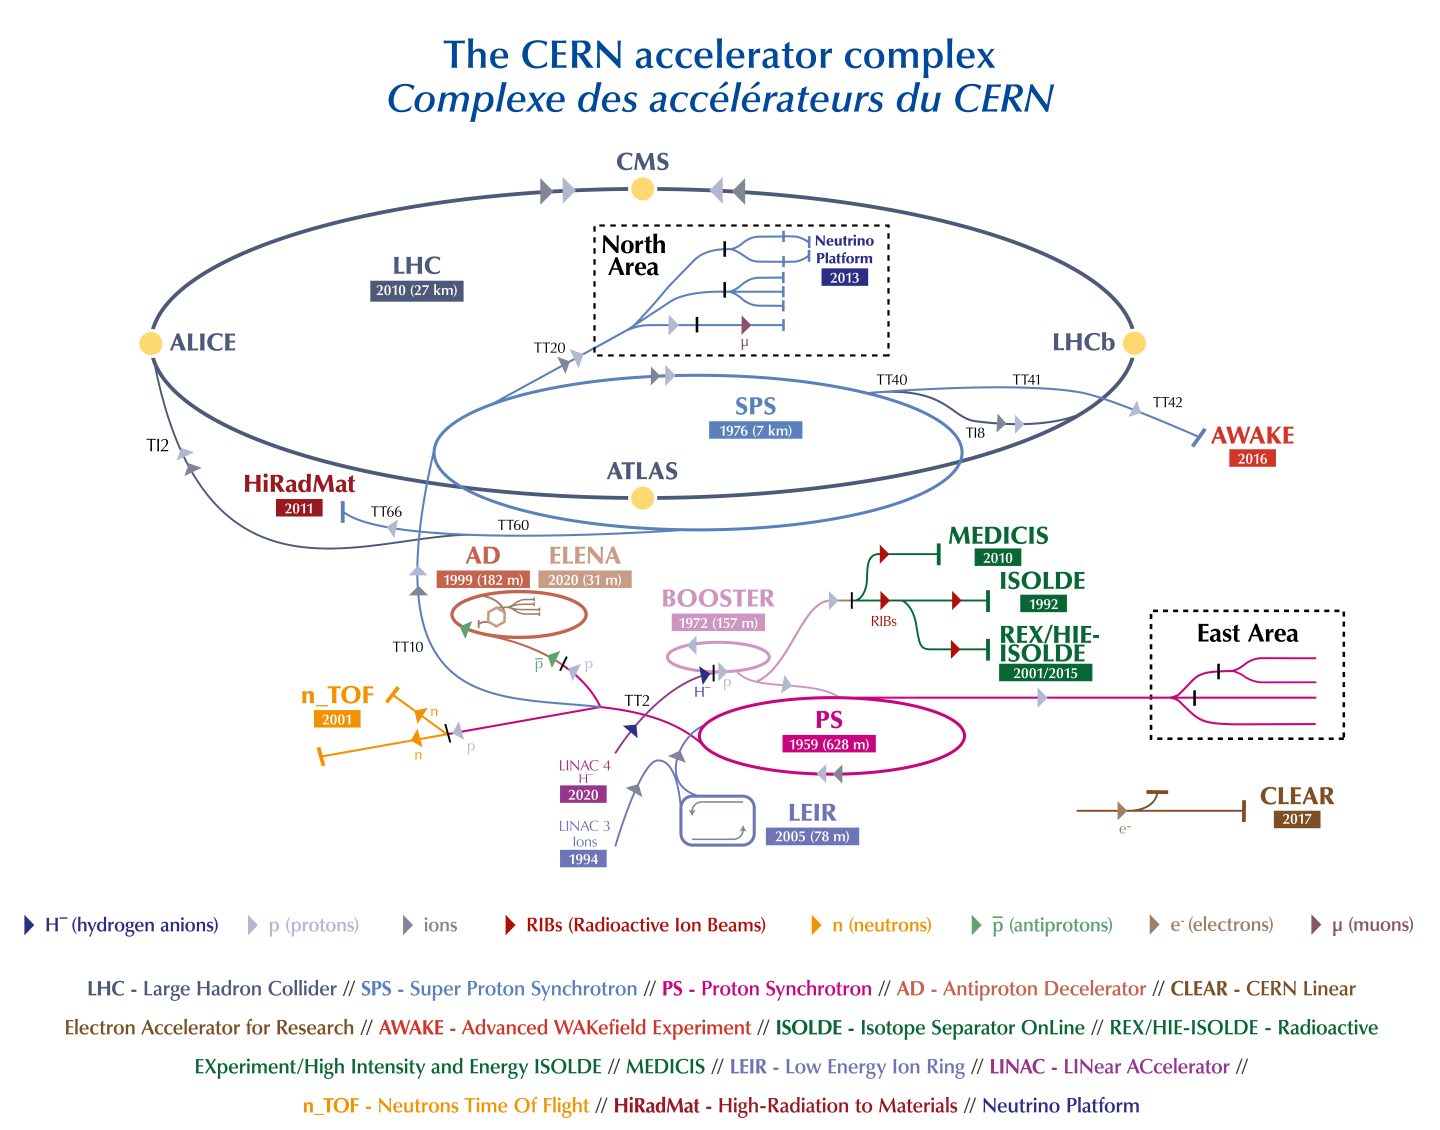
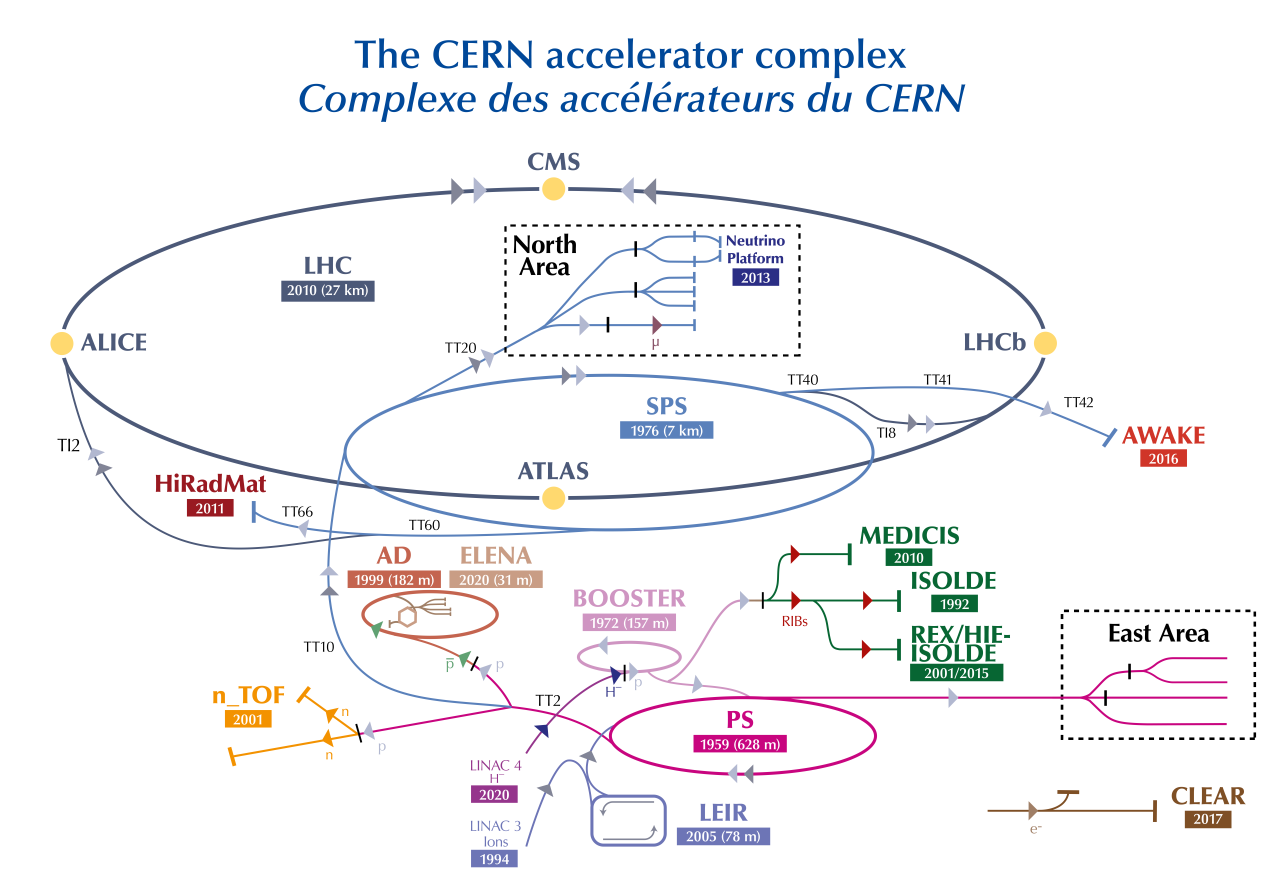
cap1: applicata revisione Paggi
- Aggiunte MiniDT e cold box
- Uniformato SND -> SND@LHC
- Cambiate immagini modello standard, rivelatore SND, sistema muoni
- Tagliata immagine complesso di acceleratori per leggibilità
- Ridotte risoluzioni immagini pesanti

Changed region(s): [[0.0309, 0.0309, 1.0, 1.0], [0.0309, 0.2165, 0.2165, 0.433], [0.0309, 0.433, 0.1237, 0.5567]]

diff --git a/Tesi_Bartocetti_Enrico.tex b/Tesi_Bartocetti_Enrico.tex
@@ -23,6 +23,7 @@
 \usepackage{emptypage} % Permette di usare \cleardoublepage invece di \clearpage{\pagestyle{empty}\cleardoublepage}
 \usepackage[bottom]{footmisc} % Forza la nota a piè di pagina a essere in fondo alla pagina
 \usepackage{lineno}
+\usepackage{needspace}
 
 % ====================================================
 %
